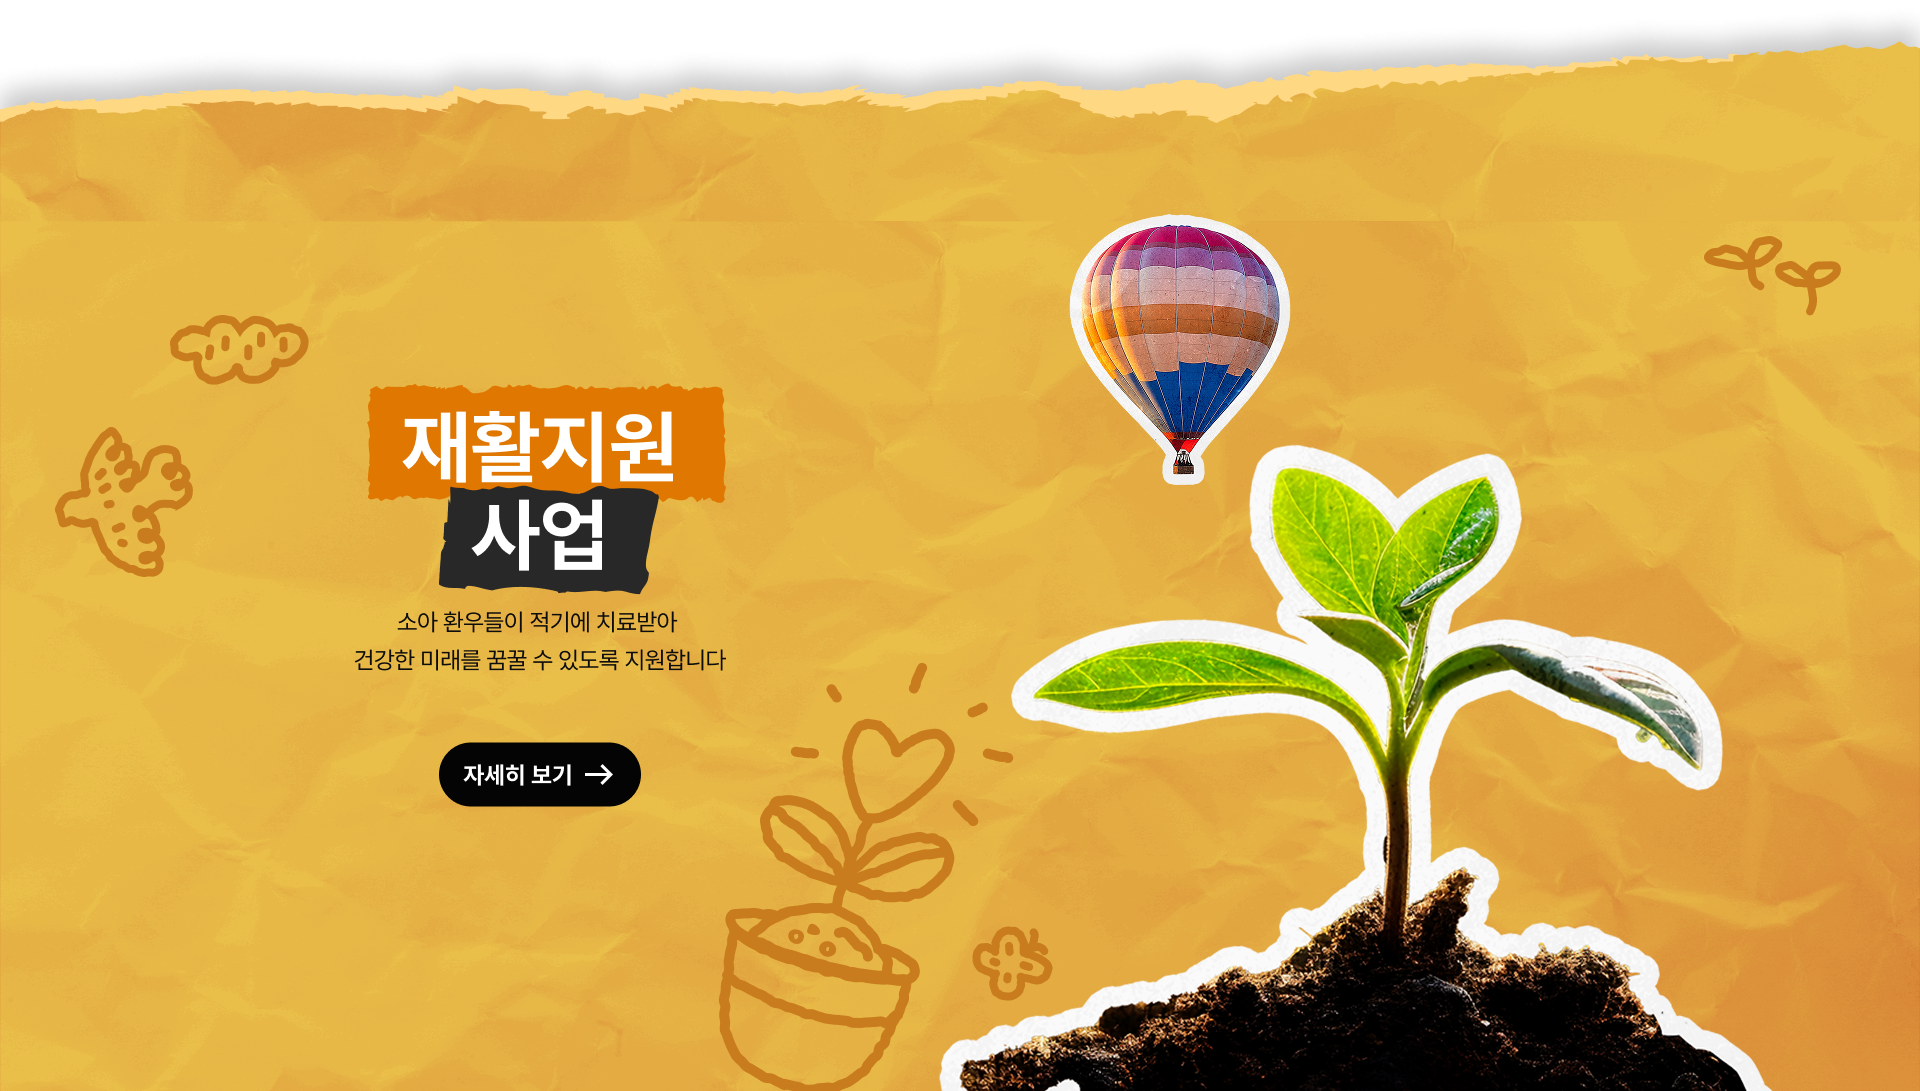
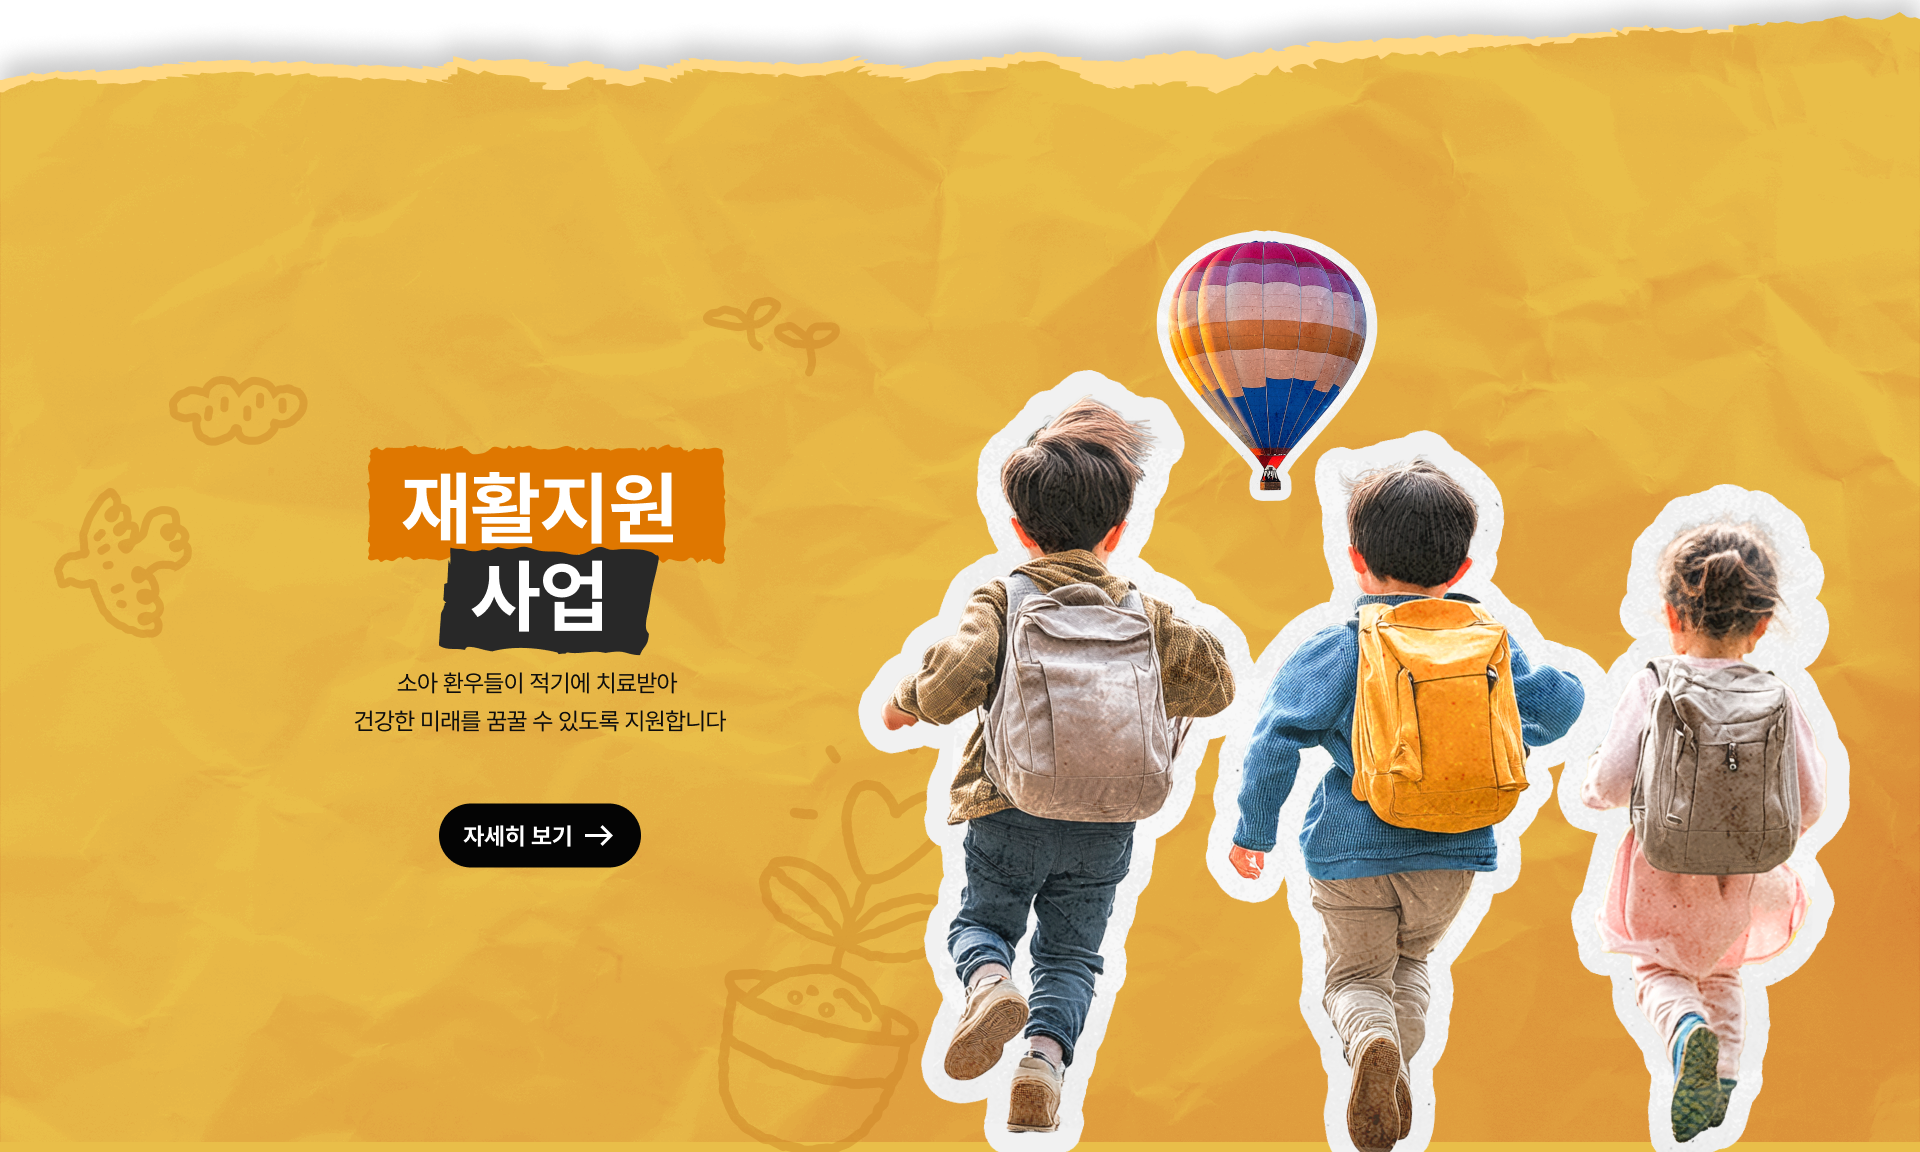
비주얼 변경

diff --git a/css/style.css b/css/style.css
@@ -2026,6 +2026,10 @@ img.pc-part {
   z-index: 10;
 }
 
+#visual img {
+  margin-top: 0;
+}
+
 .sc {
   width: 100vw;
   height: 100vh;

diff --git a/scss/pages/_main.scss b/scss/pages/_main.scss
@@ -13,6 +13,11 @@
     z-index: 10;
   }
 }
+#visual {
+  img {
+    margin-top:0;
+  }
+}
 
 .sc {
   width: 100vw;
